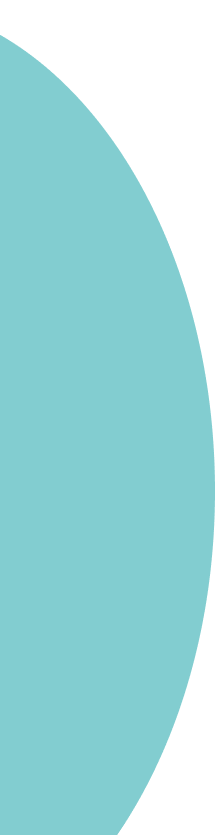
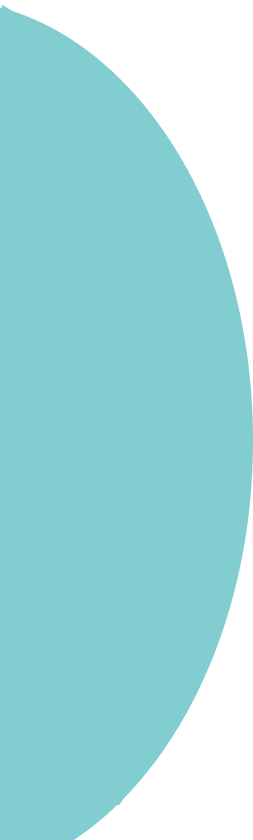
Modification de la page d'accueil

Changed region(s): [[0.0, 0.0, 1.0, 1.0]]

diff --git a/src/js/nav.js b/src/js/nav.js
@@ -1,0 +1,74 @@
+class Nav {
+
+	// Déclaration du constructeur
+
+	constructor() {
+		console.log('Nav loaded');
+	}
+
+	// Méthode pour charger la barre de navigation
+
+	loadNav() {
+		document.addEventListener("DOMContentLoaded", () => {
+			const navHTML = `
+			<nav class="navbar navbar-expand-lg navbar-light">
+				<a class="navbar-brand" href="#">
+				<img src="./img/Logo_ScoNotesSimple.png" width="65" height="45" class="d-inline-block align-top" alt="ScoNotes"/>
+				</a>
+				<button class="navbar-toggler" type="button" data-toggle="collapse" data-target="#navbarSupportedContent" aria-controls="navbarSupportedContent" aria-expanded="false" aria-label="Toggle navigation">
+				<span class="navbar-toggler-icon"></span>
+				</button>
+				<div class="collapse navbar-collapse" id="navbarSupportedContent">
+				<ul class="navbar-nav ml-auto">
+					<li class="nav-item">
+						<a class="nav-link d-flex flex-column align-items-center text-center" href="#">
+							<img src="./img/Import.svg" width="25" height="25" class="d-inline-block align-top" alt="Importation"/>
+							<span>Importation</span>
+						</a>
+					</li>
+					<li class="nav-item">
+						<a class="nav-link d-flex flex-column align-items-center text-center" href="#">
+							<img src="./img/Recapitulatif.svg" width="25" height="25" class="d-inline-block align-top" alt="Récapitulatif"/>
+							<span>Récapitulatif</span>
+						</a>
+					</li>
+					<li class="nav-item">
+						<a class="nav-link d-flex flex-column align-items-center text-center" href="#">
+							<img src="./img/Export.svg" width="25" height="25" class="d-inline-block align-top" alt="Exportation"/>
+							<span>Exportation</span>
+						</a>
+					</li>
+					<li class="nav-item">
+						<a class="nav-link d-flex flex-column align-items-center text-center" href="#">
+							<img src="./img/Profil.svg" width="25" height="25" class="d-inline-block align-top" alt="Profil"/>
+							<span>Profil</span>
+						</a>
+					</li>
+					<li class="nav-item">
+						<a class="nav-link d-flex align-items-center justify-content-center" onclick="nav.arrowAnimation()" href="#">
+							<img src="./img/Arrow.svg" width="25" height="25" class="arrow" alt=""/>
+						</a>
+					</li>
+				</ul>
+				</div>
+			</nav>`;
+
+			document.body.insertAdjacentHTML('afterbegin', navHTML);
+		});
+	}
+
+	// Méthode pour animer la flèche présente dans la barre de navigation
+
+	arrowAnimation() {
+		document.querySelectorAll('.arrow').forEach(arrow => {
+			arrow.addEventListener('click', () => {
+				arrow.classList.toggle('rotate');
+			});
+		});
+	}
+}
+
+// Instanciation de la classe Nav
+
+const nav = new Nav();
+nav.loadNav();

diff --git a/src/html/home.html b/src/html/home.html
@@ -1,48 +1,20 @@
 <!DOCTYPE html>
-<html lang="en">
+<html lang="FR">
 	<head>
 		<meta charset="UTF-8"/>
 		<meta name="viewport" content="width=device-width, initial-scale=1.0"/>
-		<title>Document</title>
+		<title>Page d'accueil</title>
 		<link href="https://maxcdn.bootstrapcdn.com/bootstrap/4.5.2/css/bootstrap.min.css" rel="stylesheet"/>
-		<link rel="stylesheet" type="text/css" href="./home.css"/>
+		<script src="https://ajax.googleapis.com/ajax/libs/jquery/3.5.1/jquery.min.js"></script>
+		<link rel="stylesheet" type="text/css" href="./nav.css"/>
 	</head>
 	<body>
-		<nav class="navbar navbar-expand-lg navbar-light bg-light">
-			<a class="navbar-brand" href="#">
-				<img src="./img/Logo_ScoNotes.png" width="82" height="60" class="d-inline-block align-top" alt=""/>
-			</a>
-			<button class="navbar-toggler" type="button" data-toggle="collapse" data-target="#navbarSupportedContent" aria-controls="navbarSupportedContent" aria-expanded="false" aria-label="Toggle navigation">
-				<span class="navbar-toggler-icon"></span>
-			</button>
-			<div class="collapse navbar-collapse" id="navbarSupportedContent">
-				<ul class="navbar-nav ml-auto">
-					<li class="nav-item">
-						<a class="nav-link d-flex flex-column align-items-center text-center" href="#">
-							<img src="./img/Import.svg" width="30" height="30" class="d-inline-block align-top" alt=""/>
-							<span>Importation</span>
-						</a>
-					</li>
-					<li class="nav-item">
-						<a class="nav-link d-flex flex-column align-items-center text-center" href="#">
-							<img src="./img/Recapitulatif.svg" width="30" height="30" class="d-inline-block align-top" alt=""/>
-							<span>Récapitulatif</span>
-						</a>
-					</li>
-					<li class="nav-item">
-						<a class="nav-link d-flex flex-column align-items-center text-center" href="#">
-							<img src="./img/Export.svg" width="30" height="30" class="d-inline-block align-top" alt=""/>
-							<span>Exportation</span>
-						</a>
-					</li>
-					<li class="nav-item">
-						<a class="nav-link d-flex flex-column align-items-center text-center" href="#">
-							<img src="./img/Profil.svg" width="30" height="30" class="d-inline-block align-top" alt=""/>
-							<span>Profil</span>
-						</a>
-					</li>
-				</ul>
-			</div>
-		</nav>
+		<div class="background-left"></div>
+		<div class="background-right">
+			<select class="form-control"></select>
+		</div>
+		<div class="background-center"></div>
+		<script src="./nav.js"></script>
+		<script src="./loadYear.js"></script>
 	</body>
 </html>

diff --git a/src/css/nav.css b/src/css/nav.css
@@ -1,0 +1,130 @@
+nav {
+	background-color: #fff;
+	box-shadow: 0 0 10px rgba(0, 0, 0, 0.1);
+}
+
+.nav-link {
+	position: relative;
+}
+
+.nav-link::after {
+	content: '';
+	position: absolute;
+	left: 0;
+	bottom: 0;
+	width: 100%;
+	height: 2px;
+	background-color: transparent;
+	transition: background-color 0.3s ease;
+}
+
+.nav-link:hover::after {
+	background-color: #82CDD0;
+}
+
+.navbar-nav .nav-item:last-child .nav-link {
+	display: flex;
+	align-items: center;
+	justify-content: center;
+	height: 100%;
+	left: -0.8rem;
+}
+
+.navbar-nav .nav-item:last-child .nav-link::after {
+	background-color: transparent;
+}
+
+span {
+	font-size: 0.9rem;
+}
+
+body {
+	position: relative;
+	margin: 0;
+	padding: 0;
+	background-color: #EEECEC;
+}
+
+body {
+	position: relative;
+	margin: 0;
+	padding: 0;
+}
+
+.background-left {
+	position: fixed;
+	top: 4rem;
+	left: -2rem;
+	width: 250px;
+	height: calc(100vh - 30px);
+	background-image: url('./img/BulleGauche.png');
+	background-size: cover;
+	background-repeat: no-repeat;
+	z-index: -1;
+}
+
+.background-right {
+	position: fixed;
+	right: 0;
+	bottom: 0;
+	width: 250px;
+	height: 250px;
+	background-image: url('./img/BulleDroite.png');
+	background-size: cover;
+	background-repeat: no-repeat;
+	z-index: -1;
+}
+
+.background-center {
+	position: fixed;
+	top: 45%;
+	left: 45%;
+	width: 200px;
+	height: 130px;
+	background-image: url('./img/Logo_ScoNotes.png');
+	background-size: cover;
+	background-repeat: no-repeat;
+	z-index: -1;
+}
+
+.rotate {
+	transform: rotate(180deg);
+	transition: transform 0.5s ease;
+}
+
+.form-control {
+	width: 8.5rem;
+	margin-top: 10rem;
+	margin-left: 5rem;
+}
+
+#addYearBtn {
+	margin-left: 5rem;
+	width: 8.5rem;
+	font-size: 0.8rem;
+}
+
+@media (max-width: 768px) {
+	.background-left {
+		width: 30vw;
+		height: calc(100vh - 4rem);
+		left: -4rem;
+	}
+	.background-right {
+		width: 30vw;
+		height: 30vw;
+	}
+}
+
+@media (max-width: 576px) {
+	.background-left {
+		width: 40vw;
+		height: calc(100vh);
+		left: -8rem;
+		top: 2rem;
+	}
+	.background-right {
+		width: 40vw;
+		height: 40vw;
+	}
+}

diff --git a/src/js/loadYear.js b/src/js/loadYear.js
@@ -1,0 +1,40 @@
+$(document).ready(function(){
+	$.ajax({
+		url: 'http://localhost:8000/api/annee',
+		type: 'GET',
+		dataType: 'json',
+		success: function(data){
+			$.each(data, function(index, annee){
+				$('.form-control').append('<option value="' + annee.id_annee + '">' + annee.annee + '</option>');
+			});
+		},
+		error: function(jqXHR, textStatus, errorThrown){
+			console.log('Erreur : ' + errorThrown);
+		}
+	});
+
+	$('.form-control').after('<button id="addYearBtn" class="btn btn-primary">Ajouter</button>');
+
+	$(document).on('click', '#addYearBtn', function(){
+		// prendre le dernier élément de la liste
+		var beforeLastYear = $('.form-control option:nth-last-child(1)').text();
+		var yearParts = beforeLastYear.split('-');
+		var startYear = parseInt(yearParts[0]) + 1;
+		var endYear = parseInt(yearParts[1]) + 1;
+		var newYear = startYear + '-' + endYear;
+		console.log(newYear);
+
+		$.ajax({
+			url: 'http://localhost:8000/api/addAnnee',
+			type: 'POST',
+			dataType: 'json',
+			data: { annee: newYear },
+			success: function(data){
+				$('.form-control').append('<option value="' + data.id_annee + '">' + data.annee + '</option>');
+			},
+			error: function(jqXHR, textStatus, errorThrown){
+				console.log('Erreur : ' + errorThrown);
+			}
+		});
+	});
+});
